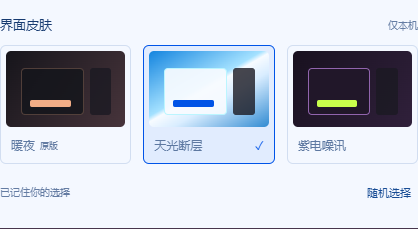
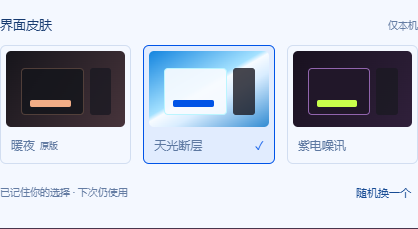
Keep theme choices persistent and default to the classic layout

Changed region(s): [[0.8397, 0.7948, 0.9952, 0.8865], [0.1866, 0.7948, 0.311, 0.8559]]

diff --git a/scripts/theme-preference-check.ts b/scripts/theme-preference-check.ts
@@ -1,0 +1,125 @@
+import assert from 'node:assert/strict';
+import { once } from 'node:events';
+import { mkdir, writeFile } from 'node:fs/promises';
+import { chromium } from 'playwright';
+import { createApp } from '../server/index';
+import { waitForTheme } from './room-ui';
+
+const app = process.env.VS_PUBLIC_URL ? undefined : createApp();
+if (app) {
+  app.server.listen(0, '127.0.0.1');
+  await once(app.server, 'listening');
+}
+const origin =
+  process.env.VS_PUBLIC_URL || `http://127.0.0.1:${(app!.server.address() as any).port}`;
+const browser = await chromium.launch({
+  executablePath: 'C:/Program Files (x86)/Microsoft/Edge/Application/msedge.exe',
+  headless: true,
+  args: ['--mute-audio', '--disable-extensions', '--js-flags=--max-old-space-size=96'],
+  ...(process.env.VS_TEST_PROXY ? { proxy: { server: process.env.VS_TEST_PROXY } } : {}),
+});
+const proof: Record<string, any> = {
+  at: new Date().toISOString(),
+  origin,
+  cases: [],
+  realPhone: false,
+};
+const errors: string[] = [];
+try {
+  for (const saved of [null, 'classic', 'glitch', 'signal', 'removed-theme']) {
+    const context = await browser.newContext({
+      storageState: {
+        cookies: [],
+        origins: saved
+          ? [{ origin, localStorage: [{ name: 'videosreeeen.appearance', value: saved }] }]
+          : [],
+      },
+    });
+    const page = await context.newPage();
+    page.on('pageerror', (error) => errors.push(error.message));
+    await page.goto(origin);
+    const expected = saved === 'glitch' || saved === 'signal' ? saved : 'classic';
+    await waitForTheme(page, expected);
+    // A stale automatic session from the old release must not override a preference/default.
+    await page.evaluate(() => sessionStorage.setItem('videosreeeen.appearance.session', 'signal'));
+    await page.reload();
+    await waitForTheme(page, expected);
+    const tab = await context.newPage();
+    await tab.goto(origin);
+    await waitForTheme(tab, expected);
+    const state = await context.storageState();
+    await context.close();
+    const reopened = await browser.newContext({ storageState: state });
+    const next = await reopened.newPage();
+    await next.goto(origin);
+    await waitForTheme(next, expected);
+    await reopened.close();
+    proof.cases.push({ saved, expected, reload: true, newTab: true, restoredStorageContext: true });
+  }
+  const context = await browser.newContext({ viewport: { width: 1280, height: 900 } });
+  await context.addInitScript(() => {
+    const original = crypto.getRandomValues.bind(crypto);
+    crypto.getRandomValues = ((array: ArrayBufferView) => {
+      if (array instanceof Uint32Array && array.length === 1) {
+        array[0] = 1;
+        return array;
+      }
+      return original(array);
+    }) as typeof crypto.getRandomValues;
+  });
+  const page = await context.newPage();
+  await page.goto(origin);
+  await waitForTheme(page, 'classic');
+  await page.locator('#appearance-button').click();
+  await page.locator('#appearance-random').click();
+  await waitForTheme(page, 'glitch');
+  await page.waitForFunction(() => localStorage.getItem('videosreeeen.appearance') === 'glitch');
+  await page.reload();
+  await waitForTheme(page, 'glitch');
+  const tab = await context.newPage();
+  await tab.goto(origin);
+  await waitForTheme(tab, 'glitch');
+  await tab.close();
+  await page.locator('#appearance-button').click();
+  await page.locator('.theme-choice:has(input[value="classic"])').click();
+  await waitForTheme(page, 'classic');
+  await page.waitForFunction(() => localStorage.getItem('videosreeeen.appearance') === 'classic');
+  await mkdir('.local/screenshots', { recursive: true });
+  await page
+    .locator('.appearance-settings')
+    .screenshot({ path: '.local/screenshots/theme-preference.png' });
+  await page.reload();
+  await waitForTheme(page, 'classic');
+  proof.randomOnlyOnRequestAndRemembered = true;
+  proof.returnToClassicPersists = true;
+  await context.close();
+  const blocked = await browser.newContext();
+  await blocked.addInitScript(() => {
+    Storage.prototype.getItem = () => {
+      throw new DOMException('blocked', 'SecurityError');
+    };
+    Storage.prototype.setItem = () => {
+      throw new DOMException('blocked', 'SecurityError');
+    };
+  });
+  const privatePage = await blocked.newPage();
+  await privatePage.goto(origin);
+  await waitForTheme(privatePage, 'classic');
+  await privatePage.locator('#appearance-button').click();
+  await privatePage.locator('.theme-choice:has(input[value="signal"])').click();
+  await waitForTheme(privatePage, 'signal');
+  await blocked.close();
+  proof.blockedStorageStillUsable = true;
+  assert.deepEqual(errors, []);
+  proof.passed = true;
+} finally {
+  await browser.close();
+  await app?.close();
+  proof.cleanup = true;
+  await mkdir('.local', { recursive: true });
+  await writeFile(
+    `.local/theme-preference-${process.env.VS_PUBLIC_URL ? 'public' : 'local'}.json`,
+    JSON.stringify(proof, null, 2) + '\n',
+  );
+}
+console.log(JSON.stringify(proof));

diff --git a/client/appearance.ts b/client/appearance.ts
@@ -3,7 +3,6 @@ import { themeRegistry } from './themes/catalog';
 import { ThemeController } from './themes/core/controller';
 
 const preferenceKey = 'videosreeeen.appearance';
-const sessionKey = 'videosreeeen.appearance.session';
 function read(kind: 'localStorage' | 'sessionStorage', key: string) {
   try {
     return window[kind].getItem(key);
@@ -23,21 +22,14 @@ function randomTheme() {
   const themes = themeRegistry.list();
   return themes[crypto.getRandomValues(new Uint32Array(1))[0]! % themes.length]!.id;
 }
-const preference = read('localStorage', preferenceKey),
-  session = read('sessionStorage', sessionKey);
-const navigation = performance.getEntriesByType('navigation')[0] as
-  PerformanceNavigationTiming | undefined;
+const preference = read('localStorage', preferenceKey);
 const pageUrl = new URL(location.href),
   requested = pageUrl.searchParams.get('skin');
-let automatic = !themeRegistry.has(preference);
-let initial = themeRegistry.has(preference)
-  ? preference
-  : themeRegistry.has(session) && navigation?.type !== 'navigate'
-    ? session
-    : randomTheme();
+let remembered = themeRegistry.has(preference);
+let initial = themeRegistry.has(preference) ? preference : themeRegistry.defaultId;
 if (themeRegistry.has(requested)) {
   initial = requested;
-  automatic = false;
+  remembered = true;
   write('localStorage', preferenceKey, initial);
   pageUrl.searchParams.delete('skin');
   history.replaceState(history.state, '', pageUrl);
@@ -52,7 +44,7 @@ export function setupAppearance(settings: HTMLElement) {
     <section class="appearance-settings" aria-labelledby="appearance-title">
       <div class="appearance-heading"><h3 id="appearance-title">界面皮肤</h3><span>仅本机</span></div>
       <fieldset class="theme-choices"><legend class="theme-sr-only">选择界面皮肤</legend></fieldset>
-      <div class="appearance-auto"><span id="appearance-status" role="status"></span><button id="appearance-random" type="button" class="text-button" title="重新随机选择皮肤；未手动选择时，新标签页自动分配">随机选择</button></div>
+      <div class="appearance-auto"><span id="appearance-status" role="status"></span><button id="appearance-random" type="button" class="text-button" title="随机换一个并记住；刷新或下次打开不会自动更换">随机换一个</button></div>
     </section>`,
   );
   const choices = settings.querySelector('.theme-choices')!;
@@ -98,9 +90,9 @@ export function setupAppearance(settings: HTMLElement) {
       ? '正在加载主题…'
       : state.failed
         ? '主题暂不可用'
-        : automatic
-          ? '随机分配 · 刷新保持'
-          : '已记住你的选择';
+        : remembered
+          ? '已记住你的选择 · 下次仍使用'
+          : '默认使用原版界面 · 可手动更换';
     const definition = themeRegistry.get(selected) ?? themeRegistry.get(themeRegistry.defaultId)!;
     const name = definition.name + (definition.hint ? ' · ' + definition.hint : '');
     settings
@@ -111,15 +103,15 @@ export function setupAppearance(settings: HTMLElement) {
       entry.title = `切换皮肤 · ${name}`;
       entry.setAttribute('aria-label', `切换皮肤，当前${name}`);
     }
-    if (!state.loading) write('sessionStorage', sessionKey, state.active);
   }
   let selection = 0;
-  function select(id: string, random = false) {
+  function select(id: string) {
     const ticket = ++selection;
-    automatic = random;
-    if (random) write('localStorage', preferenceKey, null);
     void themeController.select(id).then((applied) => {
-      if (applied && ticket === selection && !random) write('localStorage', preferenceKey, id);
+      if (applied && ticket === selection) {
+        write('localStorage', preferenceKey, id);
+        remembered = true;
+      }
       update();
     });
   }
@@ -131,25 +123,24 @@ export function setupAppearance(settings: HTMLElement) {
     )
       select(event.target.value);
   });
-  // Clicking an already selected automatic choice still makes it a preference.
+  // Clicking the default choice also pins it for future visits.
   choices.addEventListener('click', (event) => {
     if (
       event.target instanceof HTMLInputElement &&
       event.target.checked &&
-      automatic &&
       themeRegistry.has(event.target.value)
     )
       select(event.target.value);
   });
   settings
     .querySelector('#appearance-random')!
-    .addEventListener('click', () => select(randomTheme(), true));
+    .addEventListener('click', () => select(randomTheme()));
   themeController.subscribe(update);
   themeRegistry.subscribe(() => {
     const saved = read('localStorage', preferenceKey);
     if (saved && !themeRegistry.has(saved)) {
       write('localStorage', preferenceKey, null);
-      automatic = true;
+      remembered = false;
     }
     renderChoices();
     update();

diff --git a/scripts/appearance-check.ts b/scripts/appearance-check.ts
@@ -85,7 +85,7 @@ async function select(page: Page, value: string) {
   if (!(await page.locator('#settings-dialog').isVisible()))
     await page.locator('#appearance-button').click();
   await page.locator(`.theme-choice:has(input[value="${value}"])`).click();
-  await waitForTheme(page,value);
+  await waitForTheme(page, value);
   assert.equal(await theme(page), value);
   await page.waitForTimeout(180); // Let the existing 150 ms color transition settle before screenshots.
 }
@@ -146,11 +146,14 @@ try {
     });
   });
   await owner.goto(origin);
+  assert.equal(await theme(owner), 'classic');
+  await select(owner, 'glitch');
+  await close(owner);
   assert.equal(await theme(owner), 'glitch');
   await owner.reload();
   assert.equal(await theme(owner), 'glitch');
-  proof.randomVariantsAndStableReload = true;
-  await select(owner, 'glitch'); // Clicking the already-selected random skin pins it too.
+  proof.defaultClassicAndRememberedReload = true;
+  await select(owner, 'glitch');
   assert.match(await owner.locator('#appearance-status').innerText(), /已记住/);
   await close(owner);
   await glitchContext.addInitScript(() => {
@@ -804,14 +807,19 @@ try {
   assert.equal(await theme(owner), 'glitch');
   proof.keyboardSelection = true;
   await owner.locator('#appearance-random').click();
-  assert.match(await owner.locator('#appearance-status').innerText(), /随机分配/);
-  assert.equal(await owner.evaluate(() => localStorage.getItem('videosreeeen.appearance')), null);
+  await owner.waitForFunction(() =>
+    document.querySelector('#appearance-status')?.textContent?.includes('已记住'),
+  );
+  assert.equal(
+    await owner.evaluate(() => localStorage.getItem('videosreeeen.appearance')),
+    await theme(owner),
+  );
   await close(owner);
   await owner.reload();
   const reloaded = await theme(owner);
   await owner.reload();
   assert.equal(await theme(owner), reloaded);
-  proof.returnToRandom = true;
+  proof.oneTimeRandomRemembered = true;
   const blockedContext = await context(1);
   await blockedContext.addInitScript(() => {
     const get = Storage.prototype.getItem;

diff --git a/docs/verification-theme-preference.md b/docs/verification-theme-preference.md
@@ -1,0 +1,18 @@
+# 2026-11-02 主题选择保持与原版默认
+
+旧行为只把手动选择写入 `videosreeeen.appearance`；没有有效偏好时，新导航随机分配主题，同标签刷新才复用 sessionStorage。点击「随机选择」还会删除已保存偏好。这使没有主动固定主题的老用户在新标签或再次访问时遭遇不同布局。
+
+现在由 `client/appearance.ts` 统一处理偏好：没有有效本机记录时使用注册表默认主题（当前为暖夜原版）；保留已有手动选择；旧的随机 session 不再影响默认。手动选择和「随机换一个」都在主题成功应用后保存结果，不再开启后续自动随机。显式 `?skin=` 链接仍会选择并保存指定主题。浏览器禁止存储时仍可当次切换，但无法承诺跨访问保存；清除网站数据也会清除偏好。
+
+主题注册、加载、生命周期和各主题布局没有增加分支，不修改房间状态或广播其他成员的选择。默认主题保持常驻，扩展仍按需加载。
+
+## 验证
+
+- `npm run build`：TypeScript、网页和既有打包入口通过；浏览器助手 ZIP 内容未变化。
+- `npm run test:theme-preference`：独立 Edge 上覆盖无记录、暖夜、天光、紫电及已移除主题记录；分别检查刷新、新标签和通过保存的 storageState 恢复新浏览器上下文。旧随机 session 不覆盖当前选择，主动随机结果保持，选回暖夜后继续保持；存储被阻止时仍可切换。
+- `npm run test:theme-framework`：24 次切换、移除 / 插入、第三主题、迟到加载与资源释放通过；原应用和媒体节点不变，没有额外媒体加载或房间操作。
+- `tests/theme-framework.test.ts`：7 项通过。设置面板截图经目视核对，保留「暖夜 原版」入口和新的记忆说明。
+
+测试使用隔离浏览器，不使用用户浏览器配置，不进入正在观看的房间，不产生真实麦克风录音。storageState 恢复验证等同于恢复已保存的本机偏好，不伪称已重启用户的物理浏览器。没有新增手机真机结论。
+
+发布结果在部署验证完成后补记。

diff --git a/docs/theme-framework.md b/docs/theme-framework.md
@@ -12,7 +12,7 @@ client/themes/
   catalog.ts               自动发现清单，注册已安装主题
 ```
 
-`client/appearance.ts` 只负责偏好、随机分配和主题选择界面。默认样式从 `classic/base.css` 常驻加载；扩展模块的 CSS 使用 Vite `?inline` 返回文本，启用时由控制器安装，卸载时从页面移除。字体和图片在主题自己的目录，只有启用对应模块才申请资源；浏览器可以复用已下载资源缓存。没有同时运行的新旧场景类或第二套旧样式入口。
+`client/appearance.ts` 只负责偏好、主动随机选择和主题选择界面。默认样式从 `classic/base.css` 常驻加载；扩展模块的 CSS 使用 Vite `?inline` 返回文本，启用时由控制器安装，卸载时从页面移除。字体和图片在主题自己的目录，只有启用对应模块才申请资源；浏览器可以复用已下载资源缓存。没有同时运行的新旧场景类或第二套旧样式入口。
 
 ## 注册与生命周期
 

diff --git a/docs/verification.md b/docs/verification.md
@@ -1,5 +1,7 @@
 # 0.4.0 验证记录
 
+2026-11-02 默认使用原版暖夜、保存手动及主动随机结果，不再随新导航自动随机，见[主题偏好验收](verification-theme-preference.md)。
+
 2026-11-01 全屏按钮被动焦点恢复引发底栏弹出、键盘状态停留与无位移鼠标唤醒修订，见[全屏焦点验收](verification-fullscreen-focus.md)。
 
 2026-11-01 支持的本机视频最高 200% 音量、真实增益与人声避让、原站回退及音频资源释放，见[音量增强验收](verification-movie-boost.md)。
